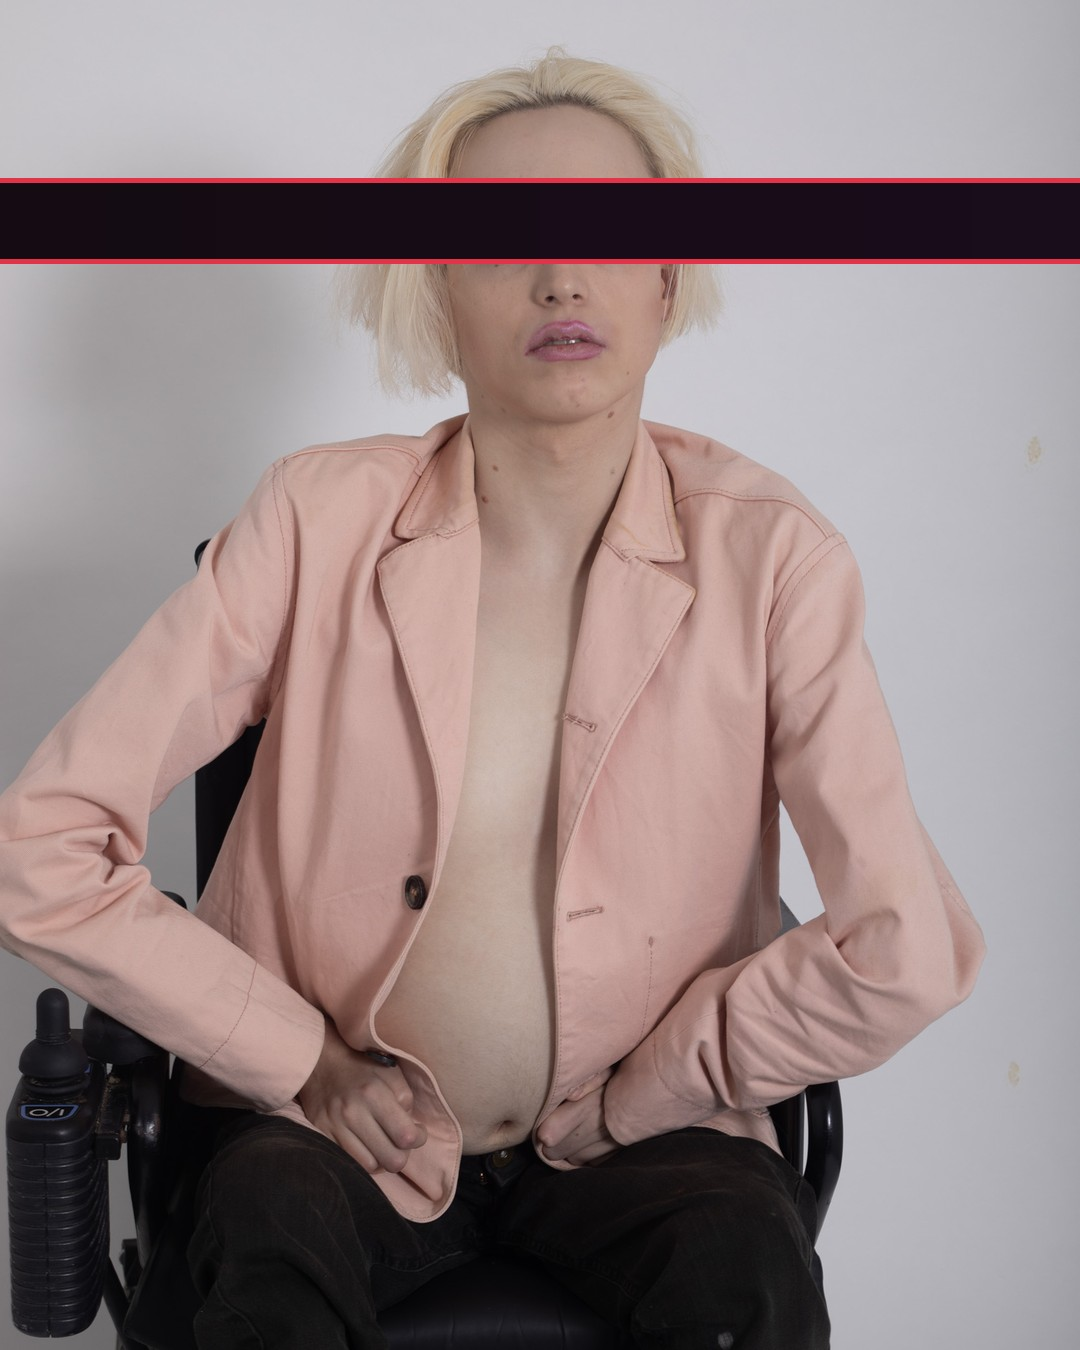
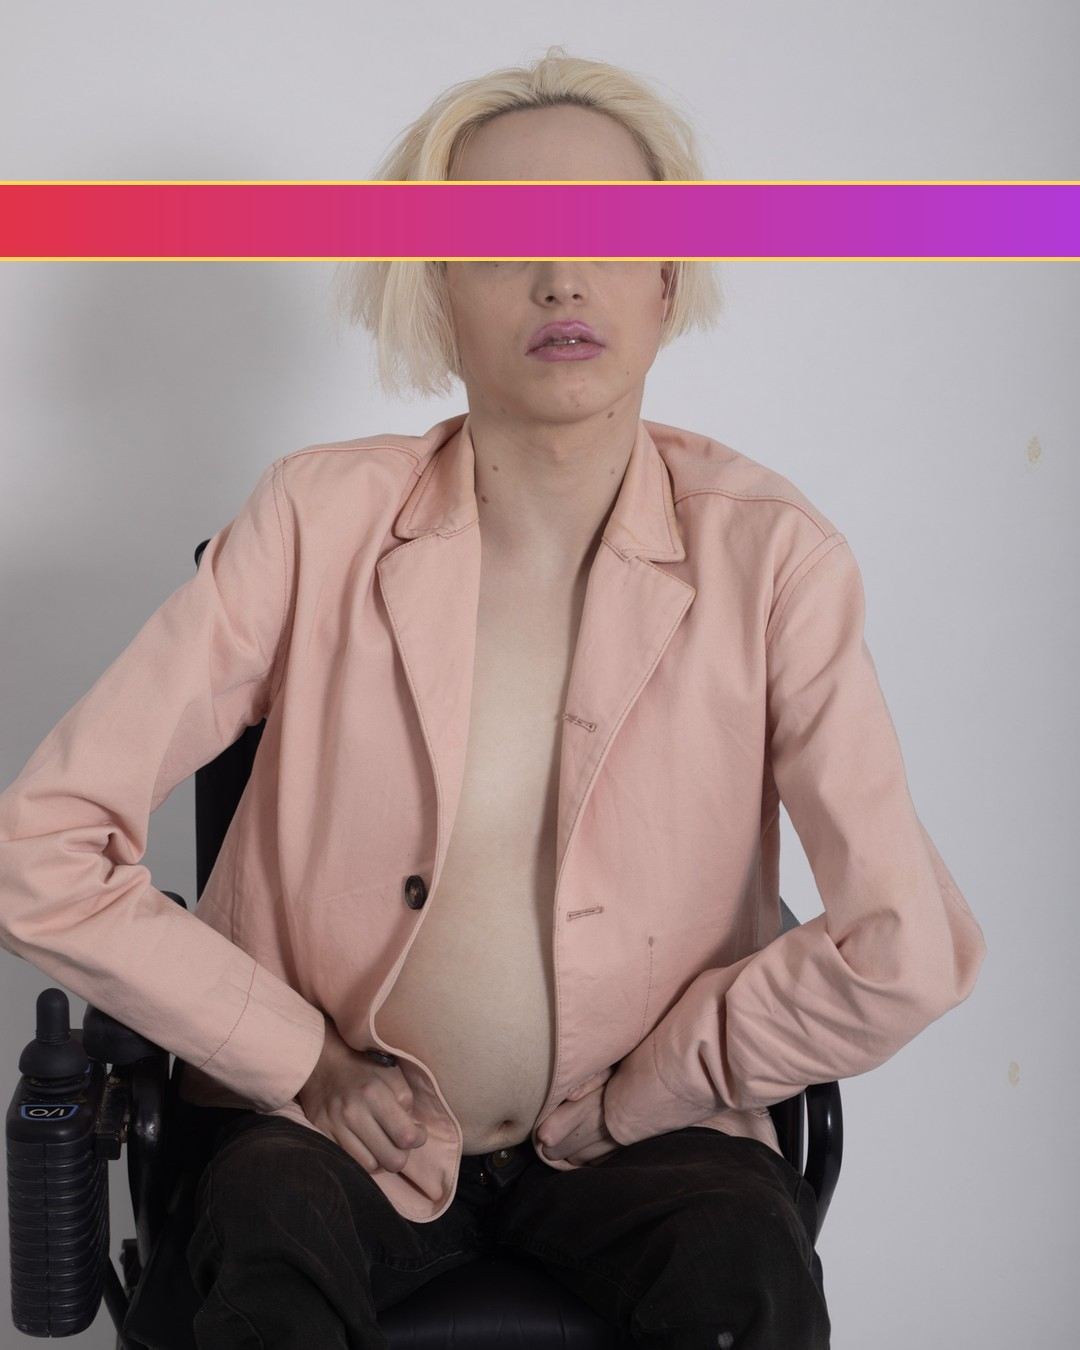
Eye bar as brand iconography; additive rules ledger
Brogan's steer: the eye bar should be a running brand THEME on every visual
post, not an ugly black censor block — and keep ALL my ideas, add on top.

- marketing/BRAND-RULES.md: the master plan. Every directive Brogan gives is
  recorded here and only removed if genuinely problematic (and flagged). So
  ideas accumulate instead of getting swapped out.
- Eye bar redesigned: thin (eyes only), ALWAYS the brand gradient
  (red->magenta) with a gold hairline, never black. Carries the "test" in two
  tiers: the swipe hook (SMASH OR PASS?) + the app connection (swipe to meet
  them on Able2Love). Applies to reveal bars and every barred face.
- Emoji stripped from image-rendered text (PIL can't draw colour emoji -> tofu
  boxes); emoji stay only in platform captions. The emoji-dependent bank pair
  is reworded to "Rate them out of 10.".

Claude-Session: https://claude.ai/code/session_01KNuAg8XUbu7HC4tB6Wszqx

Changed region(s): [[0.0, 0.1244, 1.0, 0.2178]]

diff --git a/automation/reveal/prepare_library.py b/automation/reveal/prepare_library.py
@@ -101,41 +101,54 @@ FONT_PATH = "/usr/share/fonts/truetype/dejavu/DejaVuSans-Bold.ttf"
 
 
 def bake_strip(img, y0, y1, text=None):
-    """Bar over the eyes. Worded bars get the BRAND look (red->purple gradient,
-    like the app), not a black censor block; wordless bars (reveal bases that
-    receive copy at render time) stay near-black so the render copy pops.
-    Returns (y0,y1) clamped."""
+    """The eye bar — brand iconography, not a censor block (Brogan's rule).
+    ALWAYS the brand gradient (red->magenta->purple) with a thin gold hairline,
+    never black. Thin: only over the eyes. Carries words in two tiers when given
+    a 'text' that contains ' | ' (post hook | app tag). Returns (y0,y1) clamped.
+    A wordless bar (reveal primary band, gets render-time copy) is still the
+    brand gradient so white copy pops on-brand."""
     y0, y1 = max(0, y0), min(H, y1)
     band = Image.new("RGB", (W, y1 - y0))
     px = band.load()
     for x in range(W):
         t = x / W
-        col = ((int(214 + (150 - 214) * t), int(40 + (58 - 40) * t), int(78 + (200 - 78) * t))
-               if text else (int(20 + 6 * t), 12, int(18 + 10 * t)))
+        # red (E23349) -> magenta (B23AD8) across the bar
+        col = (int(226 + (178 - 226) * t), int(51 + (58 - 51) * t), int(73 + (216 - 73) * t))
         for yy in range(y1 - y0):
             px[x, yy] = col
     img.paste(band, (0, y0))
     d = ImageDraw.Draw(img)
-    edge = (255, 214, 90) if text else (226, 51, 73)
-    d.rectangle((0, y0, W, y0 + 4), fill=edge)
-    d.rectangle((0, y1 - 4, W, y1), fill=edge)
-    if text and y1 - y0 >= 34:
-        f = ImageFont.truetype(FONT_PATH, min(30, y1 - y0 - 16))
-        while d.textlength(text, font=f) > W - 70 and f.size > 14:
-            f = ImageFont.truetype(FONT_PATH, f.size - 2)
-        tw = d.textlength(text, font=f)
-        d.text(((W - tw) / 2, (y0 + y1) / 2 - f.size * 0.58), text, font=f, fill=(235, 225, 232))
+    d.rectangle((0, y0, W, y0 + 3), fill=(255, 214, 90))
+    d.rectangle((0, y1 - 3, W, y1), fill=(255, 214, 90))
+    if text and y1 - y0 >= 30:
+        hook, _, tag = str(text).partition(" | ")
+        h = y1 - y0
+        if tag:  # two tiers: bold hook + small app tag
+            fh = ImageFont.truetype(FONT_PATH, min(30, int(h * 0.42)))
+            while d.textlength(hook, font=fh) > W - 60 and fh.size > 13:
+                fh = ImageFont.truetype(FONT_PATH, fh.size - 2)
+            ft = ImageFont.truetype(FONT_PATH, max(12, int(fh.size * 0.6)))
+            th = fh.size + ft.size + 4
+            ty = (y0 + y1) / 2 - th / 2
+            d.text(((W - d.textlength(hook, font=fh)) / 2, ty), hook, font=fh, fill=(255, 255, 255))
+            d.text(((W - d.textlength(tag, font=ft)) / 2, ty + fh.size + 3), tag, font=ft, fill=(255, 226, 236))
+        else:
+            f = ImageFont.truetype(FONT_PATH, min(28, h - 12))
+            while d.textlength(hook, font=f) > W - 60 and f.size > 13:
+                f = ImageFont.truetype(FONT_PATH, f.size - 2)
+            d.text(((W - d.textlength(hook, font=f)) / 2, (y0 + y1) / 2 - f.size * 0.6), hook,
+                   font=f, fill=(255, 255, 255))
     return y0, y1
 
 
-# Words baked into bars. Index 0 lands on Brogan's band in "friends" photos;
-# later entries land on the other (consenting, barred) people's bands.
+# Words baked into bars — the "test" (post hook | app tag), the two jobs Brogan
+# wants in the eye box: the swipe hook, plus a line connecting it to the app.
 BAR_WORDS = [
-    "SMASH OR PASS? NO PEEKING.",
-    "YES OR NO? EYES OPTIONAL.",
-    "ABLE2LOVE ♥ FIRST OF ITS KIND",
-    "10/10 NIGHT. NAMES CLASSIFIED.",
-    "WOULD YOU? DON'T OVERTHINK IT.",
+    "SMASH OR PASS? | swipe to meet them on Able2Love",
+    "YES OR NO? | Able2Love · inclusive dating",
+    "WOULD YOU? | find out on Able2Love",
+    "HOT OR NOT? | Able2Love · first of its kind",
+    "LEFT OR RIGHT? | your type is on Able2Love",
 ]
 
 
@@ -143,7 +156,7 @@ def main():
     src_dir = sys.argv[1] if len(sys.argv) > 1 else "."
     os.makedirs(OUT_DIR, exist_ok=True)
     manifest = {"sexy": [], "chair": [], "friends": []}
-    MIN_STRIP = 56  # just enough to kill the eye line; big text no longer sits on the strip
+    MIN_STRIP = 52  # thin: just the eye line, with room for two-tier bar text
     for src, (kind, out, eye) in ASSETS.items():
         p = os.path.join(src_dir, src)
         if not os.path.exists(p):
@@ -162,7 +175,7 @@ def main():
             if ey1 - ey0 < MIN_STRIP:
                 c = (ey0 + ey1) // 2
                 ey0, ey1 = c - MIN_STRIP // 2, c + MIN_STRIP // 2
-            baked.append(bake_strip(img, ey0 - 10, ey1 + 10, text=words))
+            baked.append(bake_strip(img, ey0 - 7, ey1 + 7, text=words))
         y0, y1 = baked[0]
         img.save(os.path.join(OUT_DIR, out), quality=90)
         entry = {"file": out, "stripY0": y0, "stripY1": y1}

diff --git a/automation/reveal/render_reveal.py b/automation/reveal/render_reveal.py
@@ -42,9 +42,14 @@ def font(s):
     return ImageFont.truetype(FP, s) if FP else ImageFont.load_default()
 
 
+import re as _re
+def _noemoji(x):
+    return _re.sub(r'[\U0001F000-\U0001FAFF\u2600-\u27BF\uFE0F\u2764]', '', str(x)).replace('  ', ' ').strip()
+
+
 def wrap(d, text, f, maxw):
     out, cur = [], ""
-    for wd in str(text).split():
+    for wd in _noemoji(text).split():
         t = (cur + " " + wd).strip()
         if d.textlength(t, font=f) <= maxw:
             cur = t
@@ -126,19 +131,32 @@ def swipe_bar(img, y):
 
 
 def bar_label(img, y0, y1, label):
-    """Draw copy on the baked strip (text only; the bar is baked into the base).
-    Shrinks to fit; clamps inside the canvas."""
+    """Draw copy on the baked (gradient) eye bar. Supports two tiers via
+    "hook | tag" so the app connection sits in the eye box too (Brogan's test)."""
+    label = _noemoji(label)
     if not label:
         return
     y0, y1 = max(0, y0), min(H, y1)
-    if y1 - y0 < 34:
+    if y1 - y0 < 30:
         return
     d = ImageDraw.Draw(img)
-    f = font(min(44, y1 - y0 - 14))
-    while d.textlength(label, font=f) > W - 90 and f.size > 20:
-        f = font(f.size - 2)
-    tw = d.textlength(label, font=f)
-    d.text(((W - tw) / 2, (y0 + y1) / 2 - f.size * 0.58), label, font=f, fill=(255, 255, 255))
+    hook, _, tag = label.partition(" | ")
+    h = y1 - y0
+    if tag and h >= 44:
+        fh = font(min(30, int(h * 0.42)))
+        while d.textlength(hook, font=fh) > W - 70 and fh.size > 14:
+            fh = font(fh.size - 2)
+        ft = font(max(12, int(fh.size * 0.6)))
+        th = fh.size + ft.size + 4
+        ty = (y0 + y1) / 2 - th / 2
+        d.text(((W - d.textlength(hook, font=fh)) / 2, ty), hook, font=fh, fill=(255, 255, 255))
+        d.text(((W - d.textlength(tag, font=ft)) / 2, ty + fh.size + 3), tag, font=ft, fill=(255, 226, 236))
+    else:
+        f = font(min(40, h - 12))
+        while d.textlength(hook, font=f) > W - 80 and f.size > 18:
+            f = font(f.size - 2)
+        d.text(((W - d.textlength(hook, font=f)) / 2, (y0 + y1) / 2 - f.size * 0.58), hook,
+               font=f, fill=(255, 255, 255))
 
 
 def eye_bar(img, y0, y1, label="able2love"):

diff --git a/marketing/BRAND-RULES.md b/marketing/BRAND-RULES.md
@@ -1,0 +1,75 @@
+# Able2Love — Brand & Content Rules (the master plan)
+
+**This file is ADDITIVE. Every instruction Brogan gives is added here, never
+silently swapped for another. Nothing is removed unless it is genuinely
+problematic — and if it is, that gets flagged to him, not quietly dropped.**
+
+Last updated: 2026-07-21.
+
+---
+
+## 1. Identity — Brogan is NOT the face of the app
+- Brogan's face (and every other person's face) must be **unidentifiable** in
+  every image ever posted. No exceptions, no matter whose face it is.
+- The method is the **eye bar** (see §2), NOT blurring, pixelating, or cropping
+  the head off (those look like hiding / look weird). We show the whole person;
+  we just cover the eyes.
+- Raw source photos (which show eyes) are NEVER committed to the repo. Only the
+  eyes-covered 1080×1350 bases go in `marketing/brand-assets/reveal-library/`.
+
+## 2. The eye bar = brand iconography (a running theme on EVERY visual post)
+- It only covers the **eyes** — the part we're actually hiding. It does **not**
+  take up a big band across the face. Thin.
+- It is **pretty and on-brand**: brand colours (red→magenta→purple gradient,
+  gold hairline), NOT an ugly black censor block.
+- Every person in the shot still needs to look good — the bar is a design
+  element, not a redaction.
+- The bar **always carries words** — never blank. Two jobs:
+  1. **Post words**: the swipe/test hook — SMASH OR PASS? / YES OR NO? /
+     SWIPE LEFT OR RIGHT? / HOT OR NOT? etc.
+  2. **App connection**: a tag tying it to Able2Love.
+- It works like a **test**: people swipe to answer "would you?", and in doing so
+  they find the app. That's the mechanic on every image.
+
+## 3. The reveal carousel (same-picture swipe)
+- Two slides from the **SAME photo**. Slide 1 = tight crop that hides the
+  wheelchair (reads as an ordinary portrait). Slide 2 = the full frame, chair
+  and all. The zoom-out IS the reveal: "See the full picture."
+- Dating-app UI (generic, trademark-safe): segmented photo bars top, swipe
+  buttons (↺ ✕ ★ ♥ ⚡) bottom, so the thumb itches to swipe.
+- Copy is rhetorical / engagement-bait (comments, arguments), not a tidy lesson.
+- Rotates images + copy weekly so it never repeats. ~1 in every 4–5 posts.
+
+## 4. "Sexy reveal" strand
+- ~40% of visual imagery = this sexy imagery of Brogan (in or out of chair,
+  looking incredible). Pick the most conventionally attractive frames.
+- Neutral third-person framing ("this person"), never self-flattery.
+
+## 5. "Out with people" strand (IMPORTANT, growing)
+- Photos of Brogan **out and about, WITH people, in the chair, doing things** —
+  gigs, pubs, parties, selfies with mates. Someone in a wheelchair with someone
+  who isn't. This is core to the message.
+- **Every** face in these gets the eye bar too.
+- **Consent**: Brogan confirms explicit permission from all friends shown; all
+  identities are concealed regardless.
+
+## 6. Stats / underserved strand
+- ≥20% of posts = real, sourced statistics + lived testimony about how disabled
+  people are underserved (dating, venues, attitudes).
+- HARD RULE: never invent a number. Only sourced stats from `stats-pool.mjs`.
+
+## 7. Voice (weekly written posts)
+- Brogan's voice: warm, funny, dry, first-person, angry at the *barriers* never
+  at disabled people. Sea-change energy. Bring the lived personal cost.
+- Every post a different shape. No formula openings. No inspiration-porn.
+- The umbrella (idea source, never a slogan): the world keeps finding new ways
+  to divide people; Able2Love brings them together.
+
+## 8. Hard formatting rules
+- **No em dashes or en dashes** in any public copy. The post-time guardrail
+  rejects them (build-reveal auto-converts them to commas).
+- Never call out a specific real venue by name for a barrier post.
+
+## 9. Ban-safety (top priority, always)
+- Official APIs only (X API, Instagram Graph). No scraping, no fake engagement.
+- Human-in-the-loop: nothing posts until Brogan releases the week.
